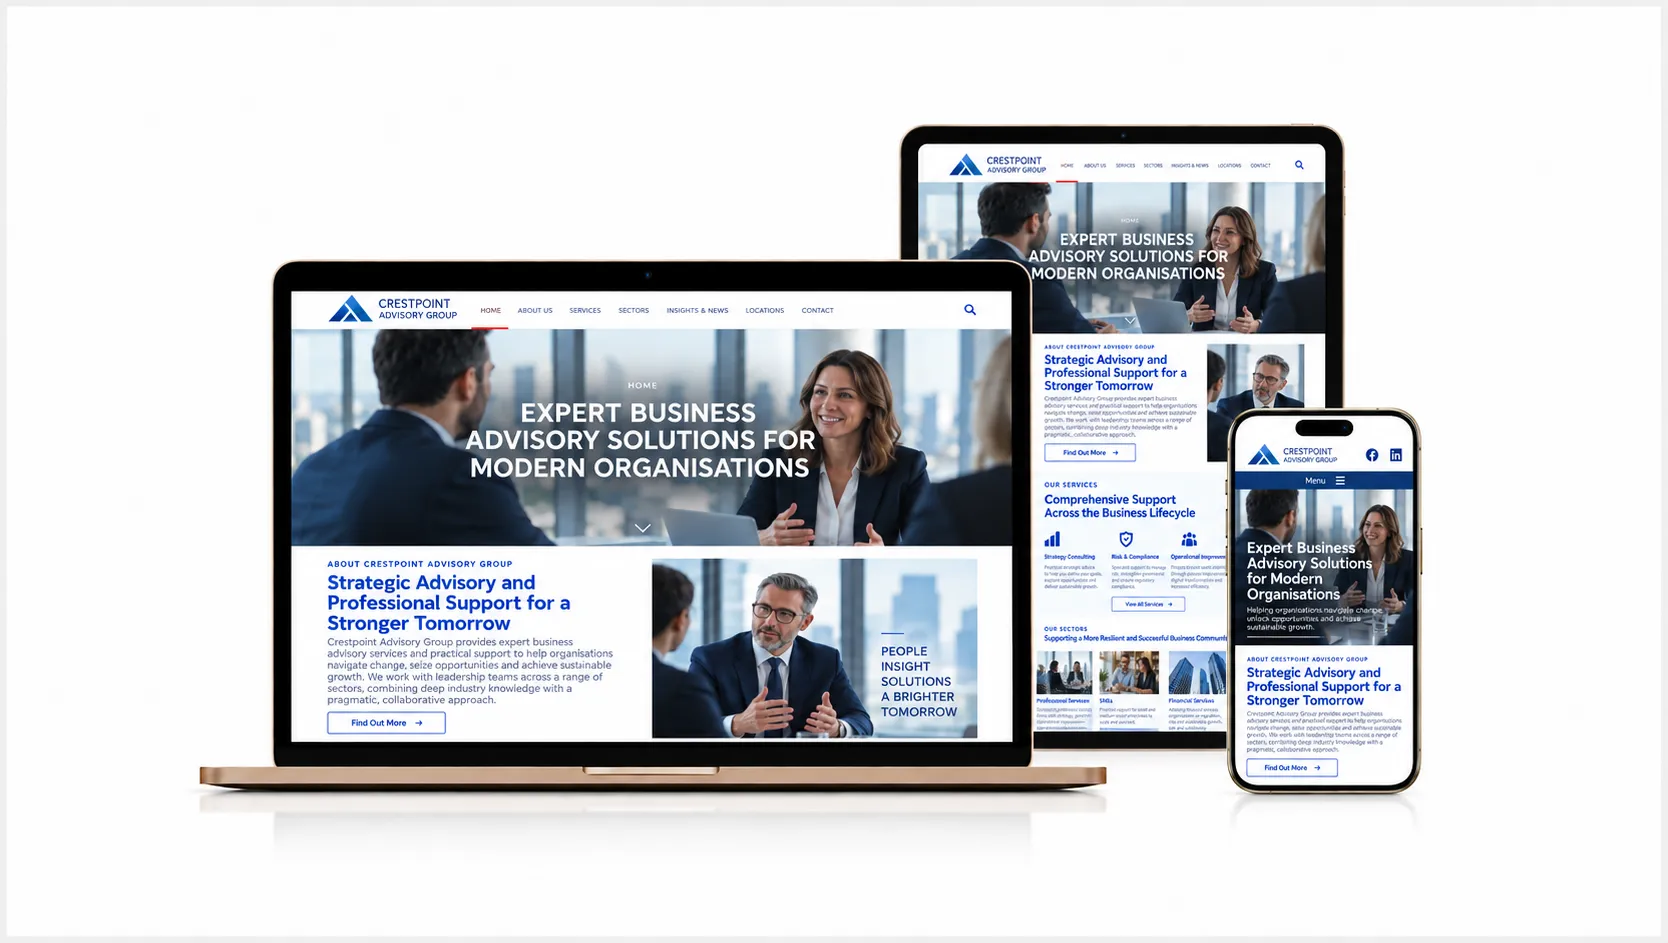
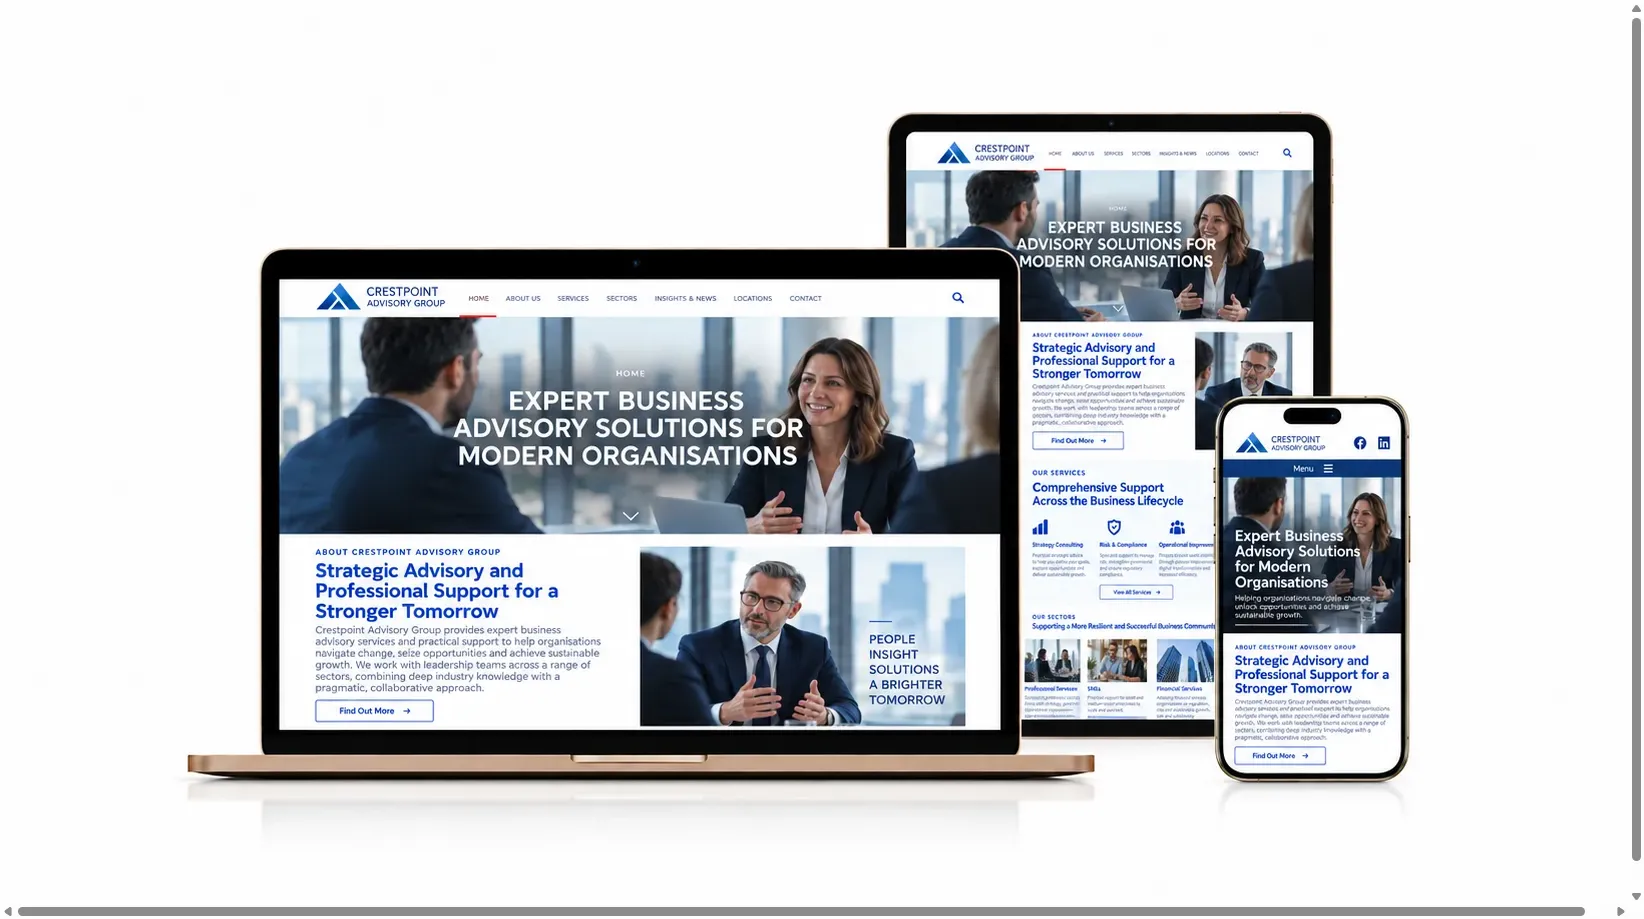
Crop grey border off the professional services and property cover images
Both cover images had a ~10px grey card border baked into the source
file. Crop it out (12px on all sides) and re-export as webp at
matching quality, updating the width/height attributes to the new
1644x919 dimensions everywhere they're referenced (their case study
pages and the Work page grid).

Changed region(s): [[0.0931, 0.1219, 0.8686, 0.8836], [0.9927, 0.0, 1.0, 0.9445], [0.0, 0.975, 0.9617, 1.0]]

diff --git a/work/index.html b/work/index.html
@@ -135,14 +135,14 @@
 
             <div class="showcase-visual-group" data-detail="content">
               <a class="showcase-visual" href="../case-studies/professional-services-content/">
-                <img class="showcase-visual-image" src="../assets/case-studies/professional-services-content/crestpointadvisorygroup-cover.webp" alt="Desktop homepage of the Crestpoint Advisory Group website" loading="lazy" width="1668" height="943">
+                <img class="showcase-visual-image" src="../assets/case-studies/professional-services-content/crestpointadvisorygroup-cover.webp" alt="Desktop homepage of the Crestpoint Advisory Group website" loading="lazy" width="1644" height="919">
                 <div class="showcase-visual-overlay">
                   <h3>Clearer website content for a professional services business</h3>
                   <p>Making specialist services easier to understand.</p>
                 </div>
               </a>
               <a class="showcase-visual" href="../case-studies/property-content/">
-                <img class="showcase-visual-image" src="../assets/case-studies/property-content/stonebridgepropertyinvestments-cover.webp" alt="Desktop homepage of the Stonebridge Property Investments website" loading="lazy" width="1668" height="943">
+                <img class="showcase-visual-image" src="../assets/case-studies/property-content/stonebridgepropertyinvestments-cover.webp" alt="Desktop homepage of the Stonebridge Property Investments website" loading="lazy" width="1644" height="919">
                 <div class="showcase-visual-overlay">
                   <h3>Restructuring website content for a property business</h3>
                   <p>Bringing a complex range of property services into a clearer structure.</p>

diff --git a/case-studies/property-content/index.html b/case-studies/property-content/index.html
@@ -84,7 +84,7 @@
         </div>
 
         <div class="case-study-placeholder">
-          <img class="case-study-placeholder-image case-study-placeholder-image-zoom-out" src="../../assets/case-studies/property-content/stonebridgepropertyinvestments-cover.webp" alt="Desktop homepage of the Stonebridge Property Investments website" loading="lazy" width="1668" height="943">
+          <img class="case-study-placeholder-image case-study-placeholder-image-zoom-out" src="../../assets/case-studies/property-content/stonebridgepropertyinvestments-cover.webp" alt="Desktop homepage of the Stonebridge Property Investments website" loading="lazy" width="1644" height="919">
         </div>
 
         <div class="case-study-overview">

diff --git a/case-studies/professional-services-content/index.html b/case-studies/professional-services-content/index.html
@@ -84,7 +84,7 @@
         </div>
 
         <div class="case-study-placeholder">
-          <img class="case-study-placeholder-image case-study-placeholder-image-zoom-out" src="../../assets/case-studies/professional-services-content/crestpointadvisorygroup-cover.webp" alt="Desktop homepage of the Crestpoint Advisory Group website" loading="lazy" width="1668" height="943">
+          <img class="case-study-placeholder-image case-study-placeholder-image-zoom-out" src="../../assets/case-studies/professional-services-content/crestpointadvisorygroup-cover.webp" alt="Desktop homepage of the Crestpoint Advisory Group website" loading="lazy" width="1644" height="919">
         </div>
 
         <div class="case-study-overview">
